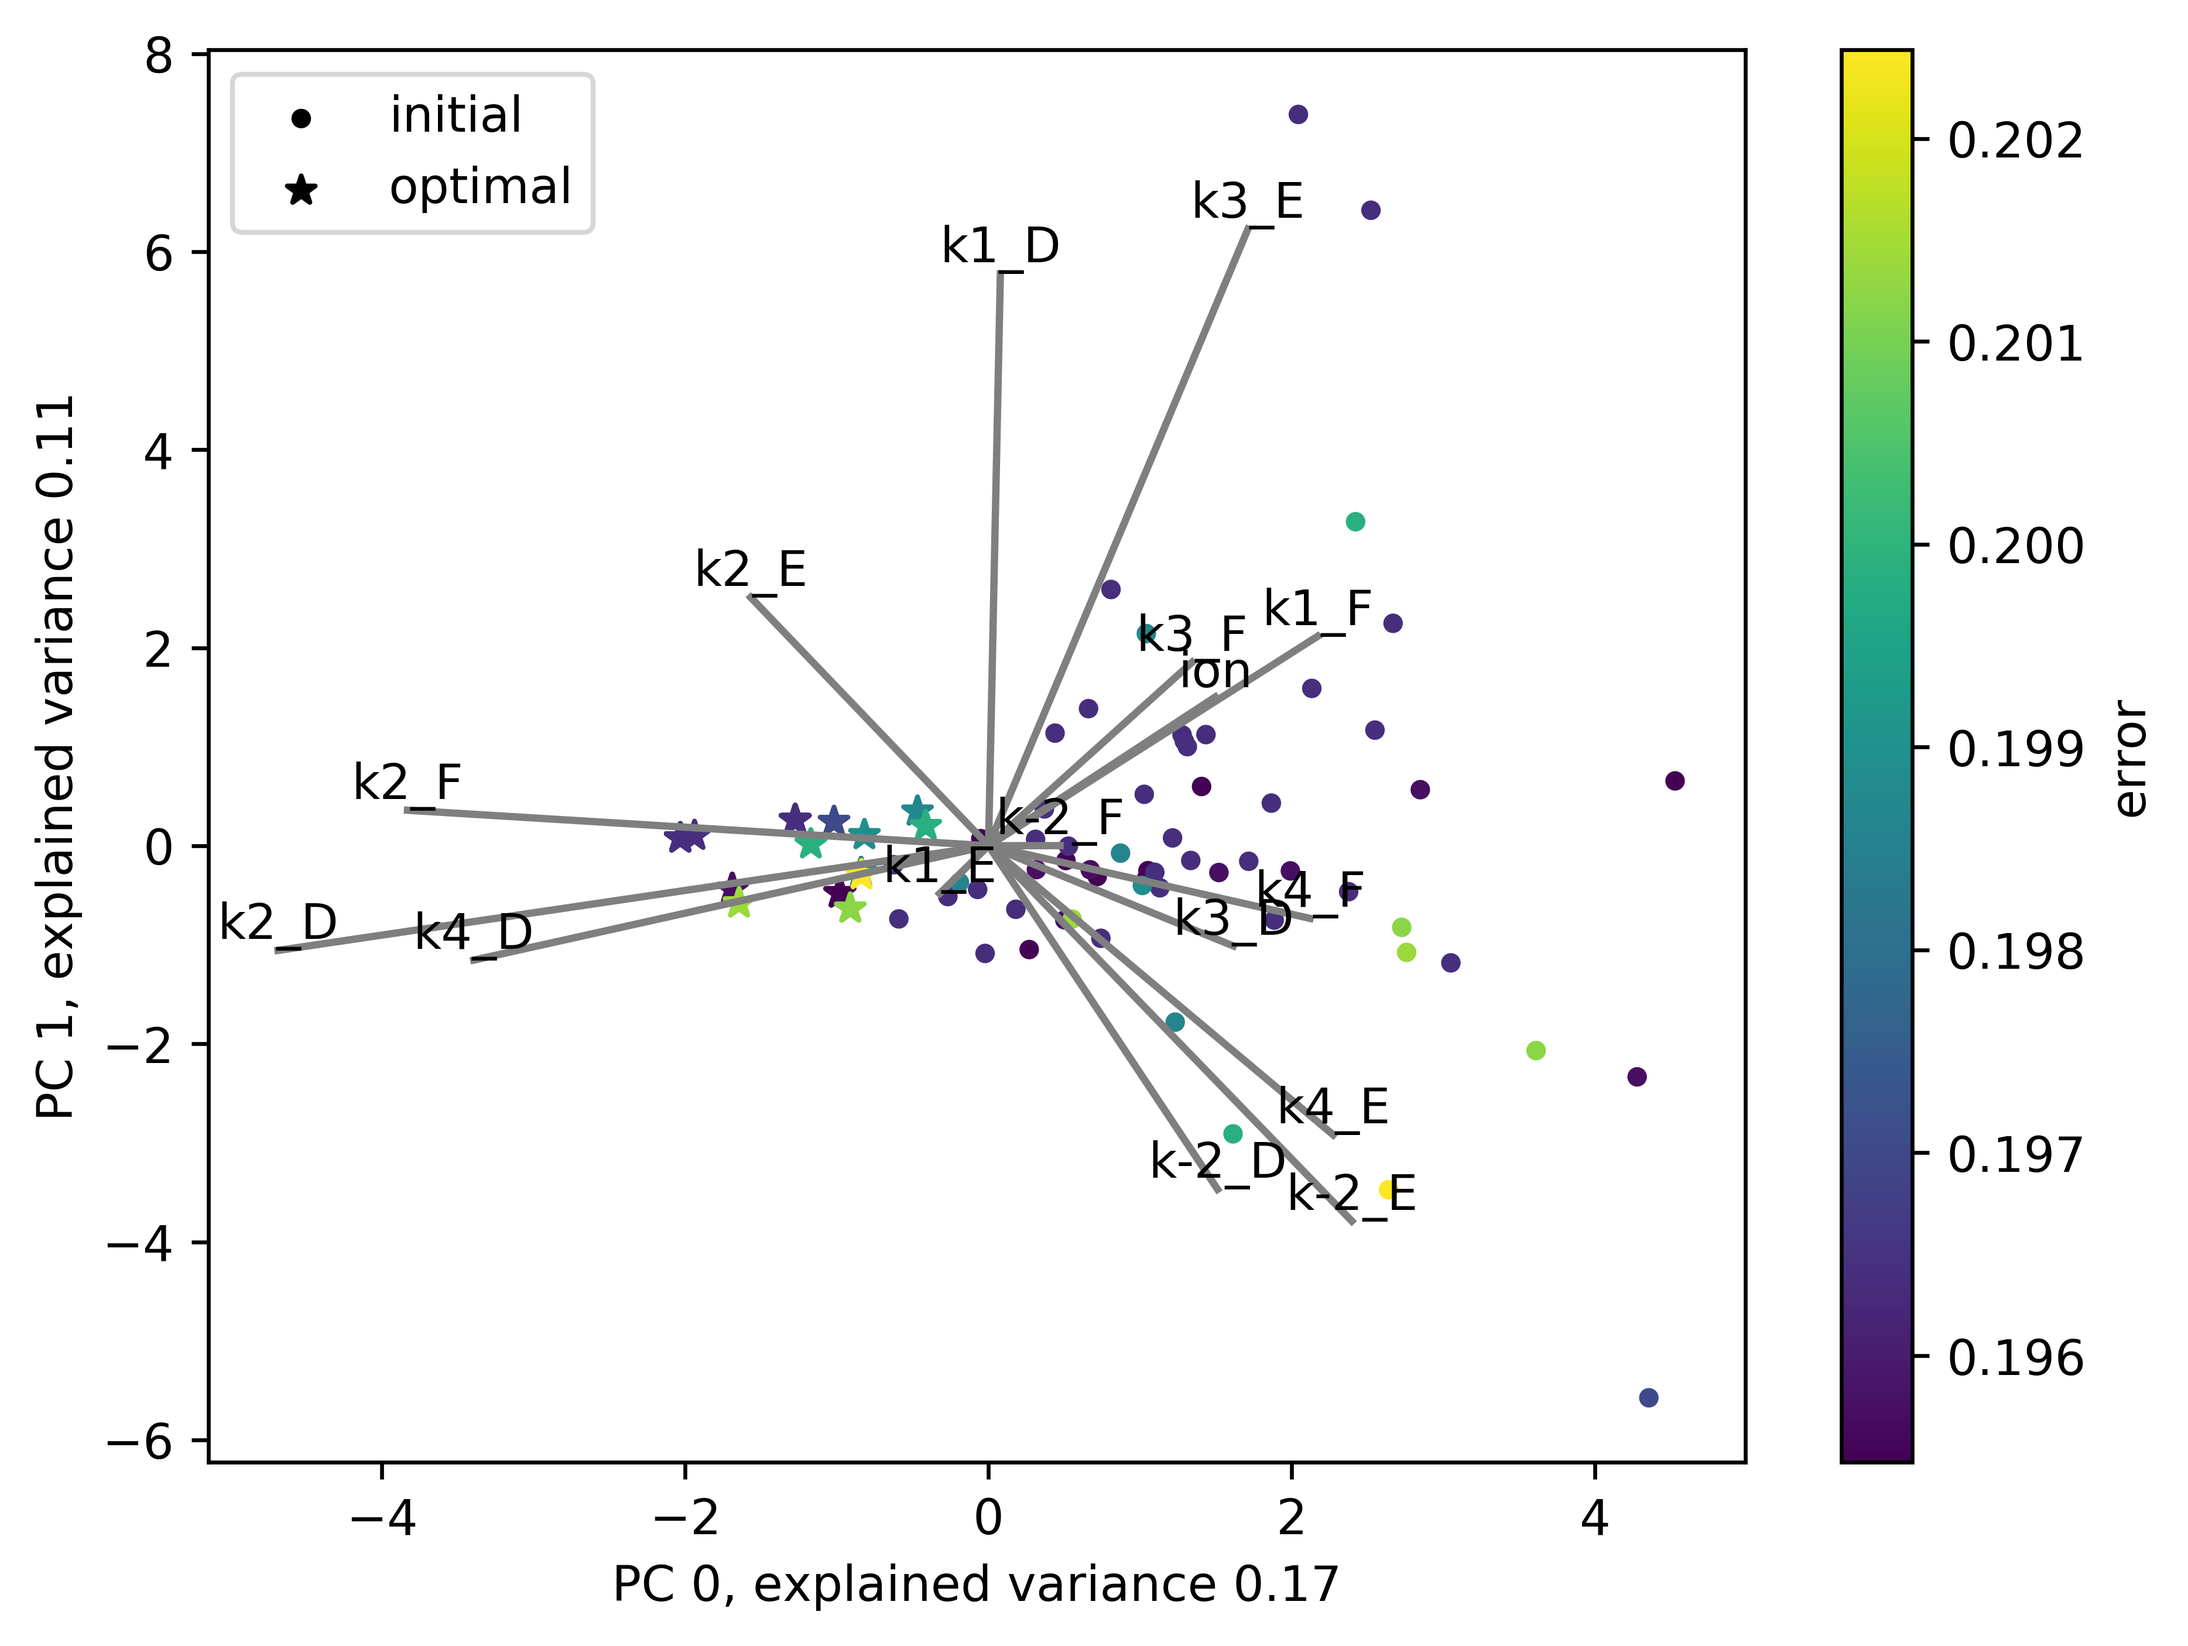
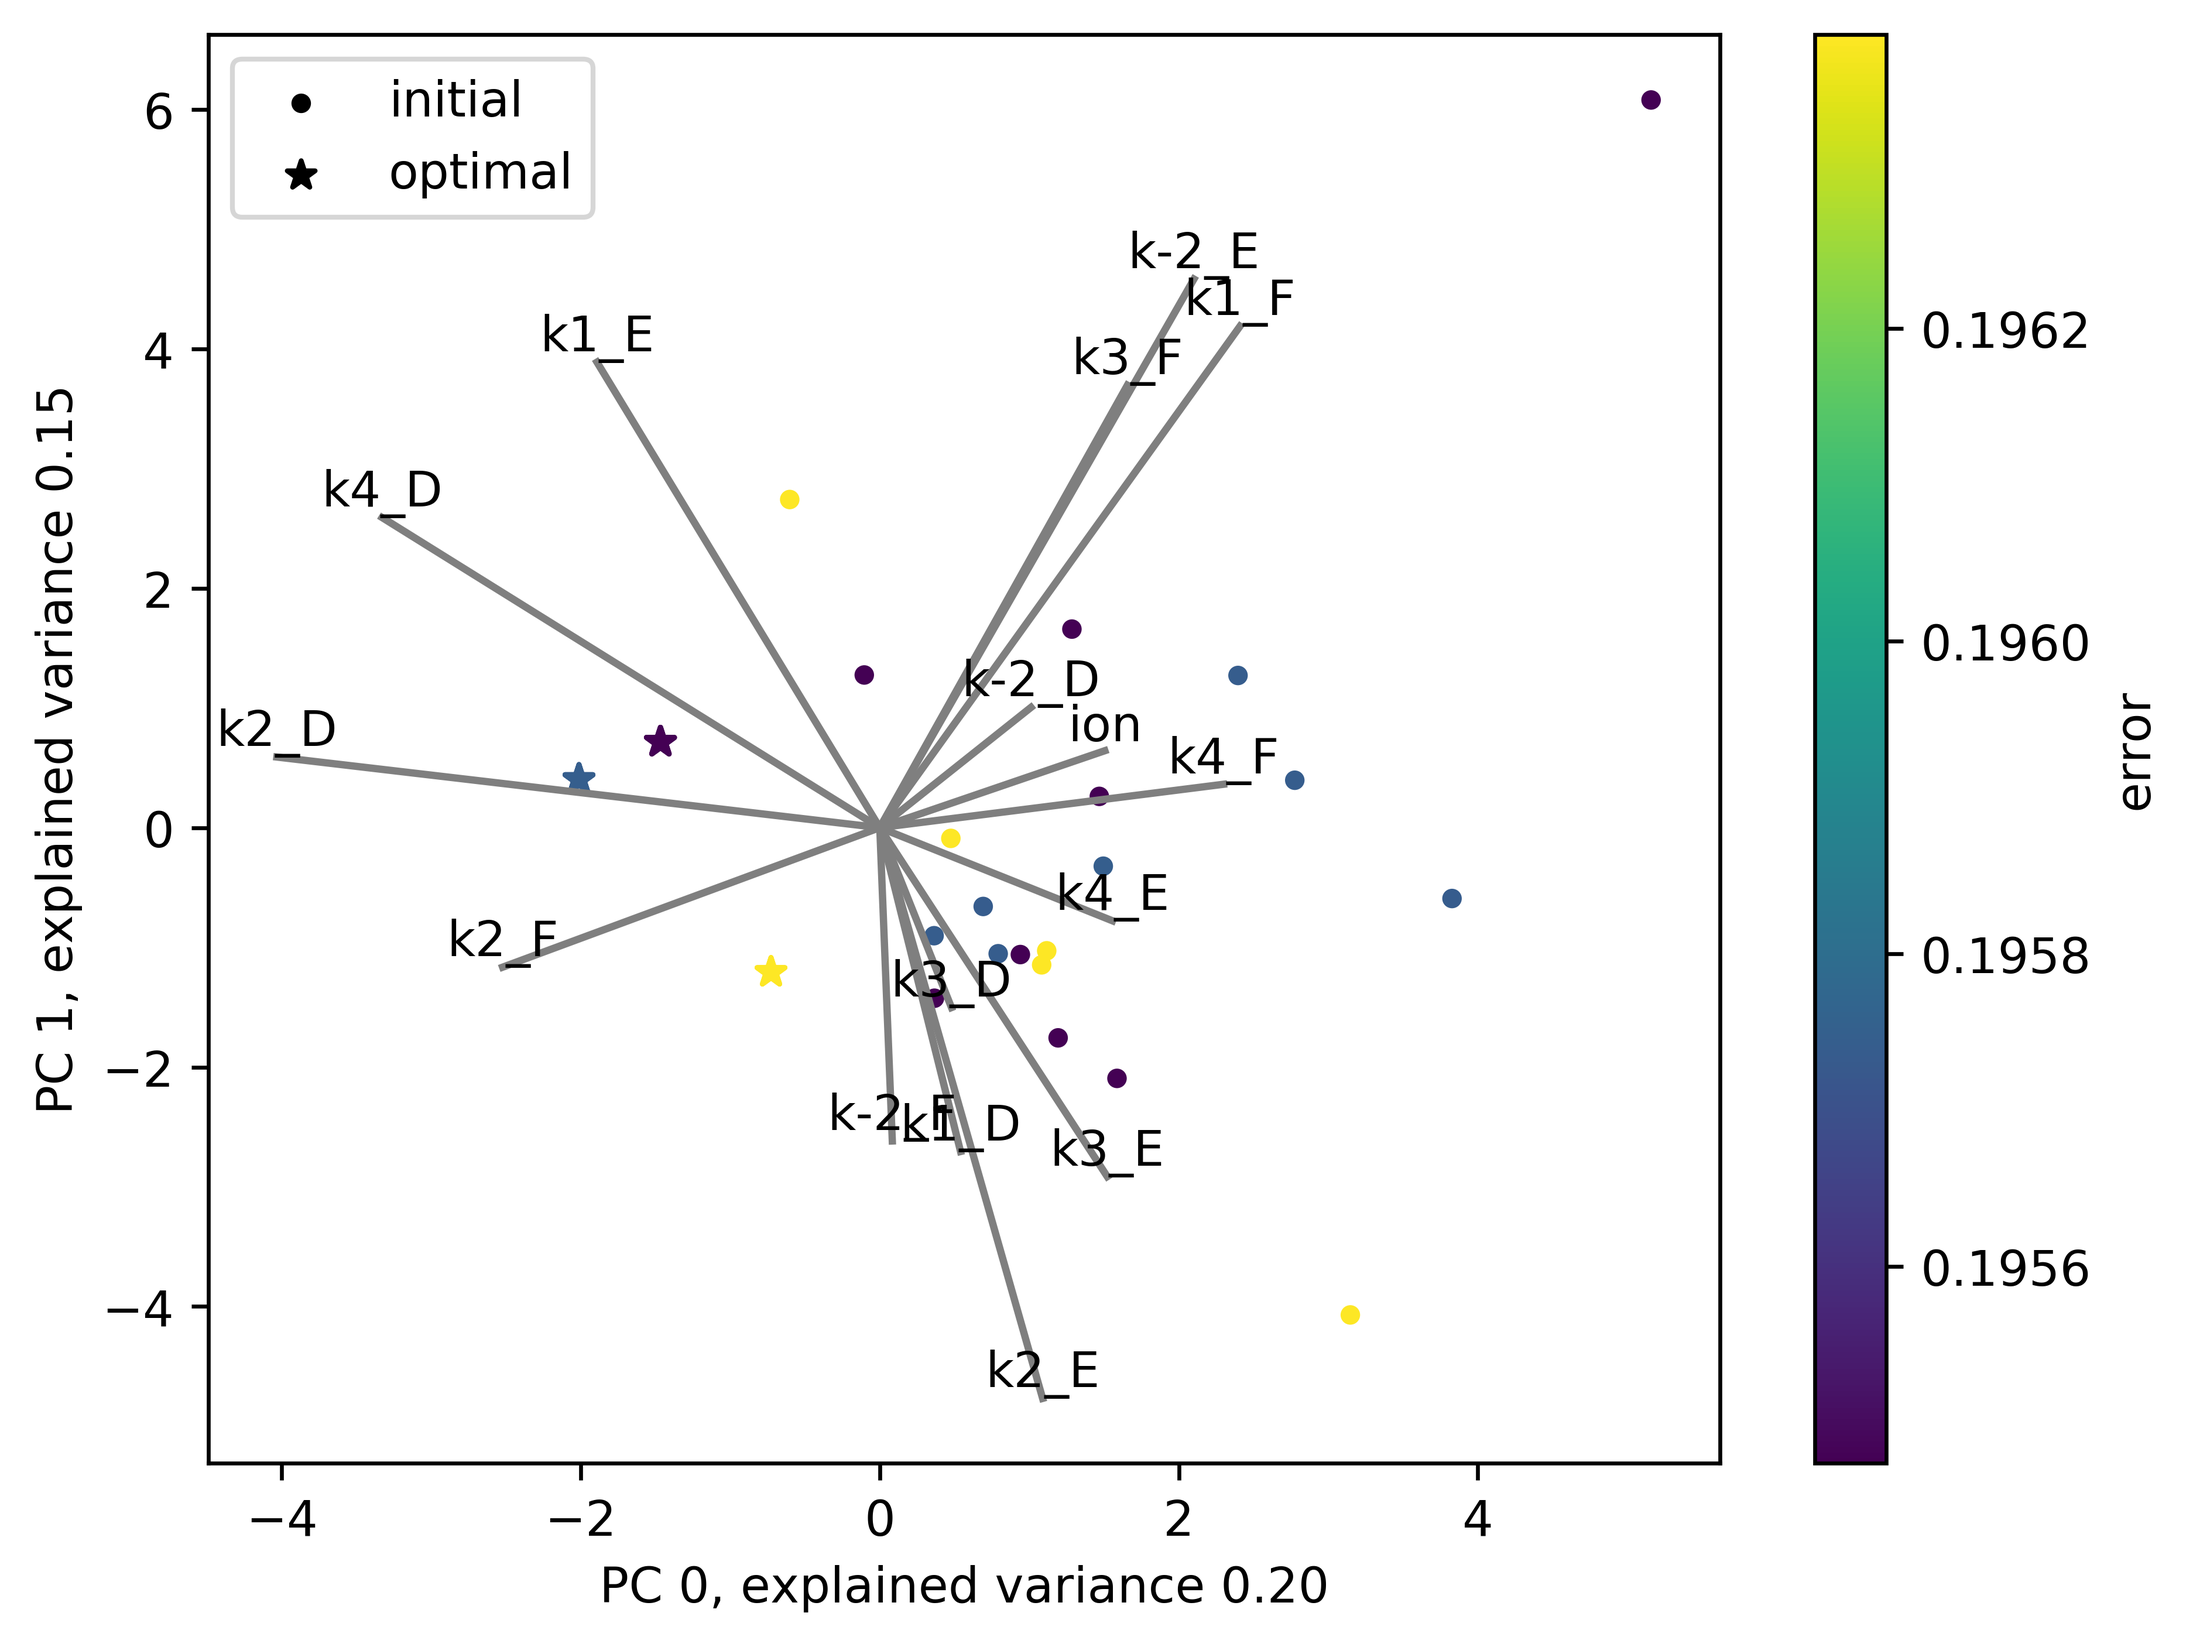
pca fix

diff --git a/src/delayed_reactant_labeling/visualize.py b/src/delayed_reactant_labeling/visualize.py
@@ -322,9 +322,10 @@ class VisualizeModel:
 
         ax = fig.add_subplot(gs[0, 1])
         scaler = StandardScaler()
-        pca = PCA().fit(X=scaler.fit_transform(self.model.all_x))
-        scattered = ax.scatter(self.model.all_x.dot(pca.components_[pc1]),
-                               self.model.all_x.dot(pca.components_[pc2]),
+        pca = PCA()
+        X_reduced = pca.fit_transform(X=scaler.fit_transform(self.model.all_x))
+        scattered = ax.scatter(X_reduced[:, pc1],
+                               X_reduced[:, pc2],
                                c=np.arange(len(self.model.all_x)))
         ax.tick_params(bottom=False, left=False, labelbottom=False, labelleft=False)
         ax_bbox = ax.get_position(original=True)
@@ -727,19 +728,20 @@ class VisualizeModel:
         data = np.concatenate([data_initial, data_optimal], axis=0)
 
         scaler = StandardScaler()
-        pca = PCA().fit(X=scaler.fit_transform(data))
+        pca = PCA()
+        pca.fit(X=scaler.fit_transform(data))
 
         fig, ax = plt.subplots(**fig_kwargs)
 
         # scores
         im = ax.scatter(
-            scaler.transform(data_initial).dot(pca.components_[pc1]),
-            scaler.transform(data_initial).dot(pca.components_[pc2]),
+            pca.transform(scaler.transform(data_initial))[:, pc1],
+            pca.transform(scaler.transform(data_initial))[:, pc2],
             marker='.', c=self.models.all_optimal_error[index]
         )
         ax.scatter(
-            scaler.transform(data_optimal).dot(pca.components_[pc1]),
-            scaler.transform(data_optimal).dot(pca.components_[pc2]),
+            pca.transform(scaler.transform(data_optimal))[:, pc1],
+            pca.transform(scaler.transform(data_optimal))[:, pc2],
             marker='*', c=self.models.all_optimal_error[index]
         )
 

diff --git a/examples/model_boundaries_Hilgers/model_bounds_Hilgers.py b/examples/model_boundaries_Hilgers/model_bounds_Hilgers.py
@@ -191,7 +191,7 @@ def optimize(compounds: list[str], calculate=True, noise_level=NOISE_LEVEL, stat
             weighed_errors = super().weigh_errors(errors)
 
             # perform the usual behavior of this function, but also perform an additional check with regards to the output!
-            TIC_sum = weighed_errors[weighed_errors.index.str.contains("TIC_")].sum()
+            TIC_sum = weighed_errors[weighed_errors.index.str.contains("TIC-")].sum()
             label_sum = weighed_errors[weighed_errors.index.str.contains("label_")].sum()
             isomer_sum = weighed_errors[weighed_errors.index.str.contains("isomer_")].sum()
             total = TIC_sum + label_sum + isomer_sum
@@ -248,9 +248,6 @@ def optimize(compounds: list[str], calculate=True, noise_level=NOISE_LEVEL, stat
 
         # normalize w.r.t. TIC
         fake_data = pd.DataFrame(fake_data, index=fake_data_columns).T
-        # TODO discuss effect of normalizing the TIC; this seems to show that if TIC is normalized we can no longer
-        # TODO use it for the model.
-        # TODO fake_data = fake_data.divide(fake_data.sum(axis=1), axis=0)
         fake_data['time (min)'] = real_data['time']
         fig, axs = plot_data(fake_data)
         fig.suptitle('concentrations -> ionization factors')

diff --git a/docs/source/extensive_example.rst b/docs/source/extensive_example.rst
@@ -689,8 +689,10 @@ plateaus, not shown here), we can just take a model for each plateau and compare
 
 .. code-block:: python
 
-    VM.plot_biplot_all_runs(slice(60))
+    VM.plot_biplot_all_runs(slice(20))
 
 .. image:: images/extensive_example/plot_biplot_all_runs.png
     :width: 640
     :align: center
+
+Because we had three main plateaus in the optimal 20 runs, we only see 3 unique optimal points in the biplot.
